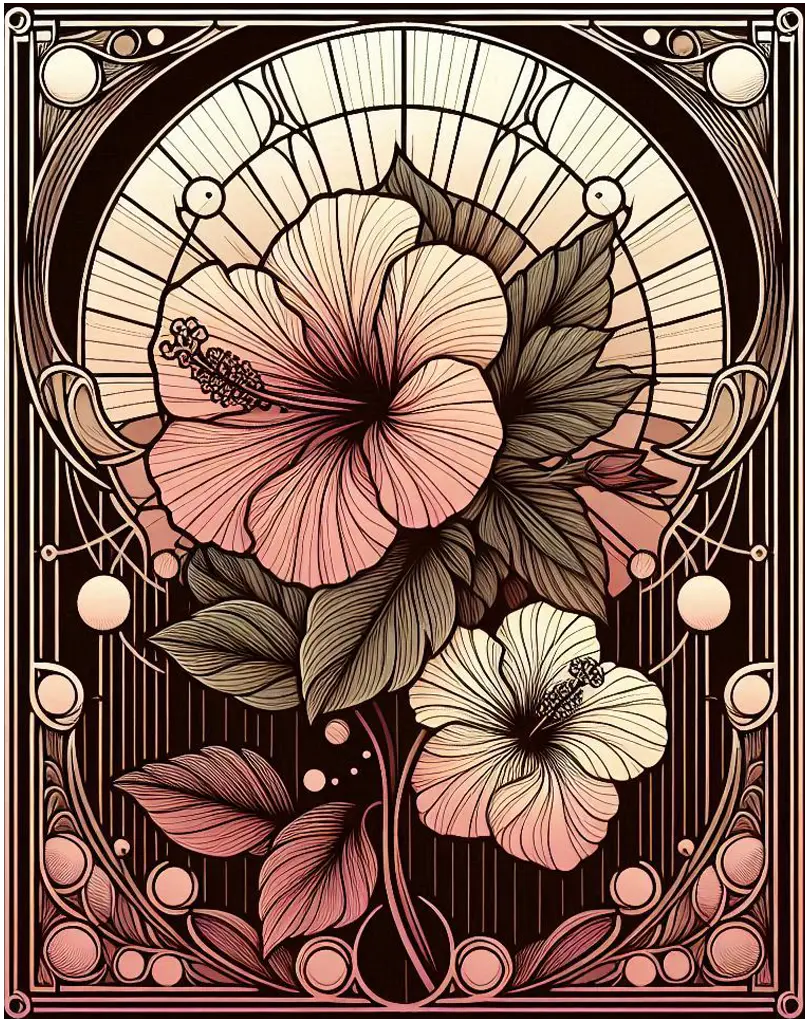
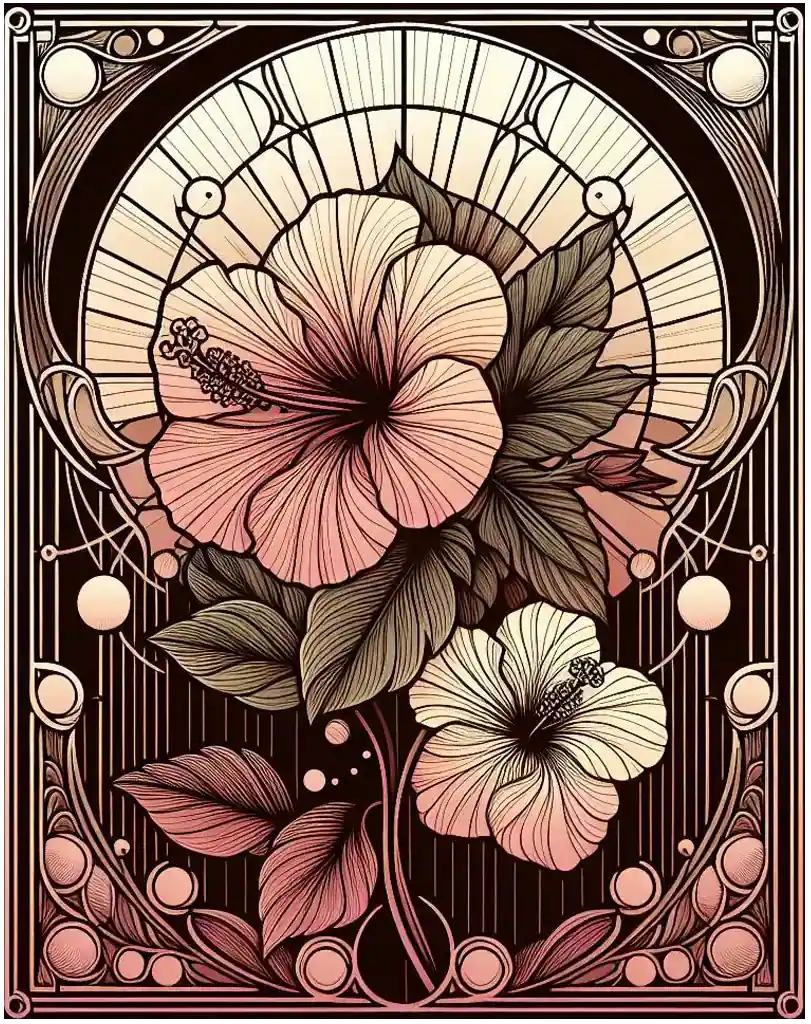
Img Optimization and image backgrounds

diff --git a/pages_HSTM/miniParallax/contact.html b/pages_HSTM/miniParallax/contact.html
@@ -7,29 +7,30 @@
     <link rel="stylesheet" href="../../css/miniParallax.css">
     <script src="../../scripts/tbd.js" defer></script>
 </head>
-<body class="contact_body dark">
-    <img src="../../assets/img/dark_0.webp" data-speedx="0.002" data-speedy="0.002"  alt="" class="parallax bg_img">
-    <img src="../../assets/img/dark_1.webp" data-speedx="0.005" data-speedy="0.005" alt="" class="parallax trees1">
+<body class="contact_body ">
+    <img src="../../assets/img/Hibiscus_7.webp" alt="" class="contactBckImg">
+    <img src="../../assets/img/Hibiscus_4.webp" alt="" class="contactBckImg2">
     <header class="app-bar">
-        <h1 class="logo dark">HSTM</h1>
-        <nav class="nav dark">
-          <ul class="navUl dark">
-            <li class="navLi dark"><a class="navA dark" href="../../index.html">Home</a></li>
-            <li class="navLiDrop dark">SERVICES
-                <ul class="services_drop dark hidden">
-                    <li class="servicesLi dark"><a class="serv_navA" href="new_client.html">New Client</a></li>
-                    <li class="servicesLi dark"><a class="serv_navA" href="ret_client.html">Returning</a></li>
+        <h1 class="logo ">HSTM</h1>
+        <nav class="nav ">
+          <ul class="navUl ">
+            <li class="navLi "><a class="navA " href="../../index.html">Home</a></li>
+            <li class="navLiDrop ">SERVICES
+                <ul class="services_drop  hidden">
+                    <li class="servicesLi "><a class="serv_navA" href="new_client.html">New Client</a></li>
+                    <li class="servicesLi "><a class="serv_navA" href="ret_client.html">Returning</a></li>
                 </ul>
             </li>
-            <li class="navLi dark"><a class="navA dark" href="FAQ.html">FAQ</a></li>
-            <li class="navLi dark"><a class="navA dark" href="about.html">About</a></li>
-            <li class="navLi dark"><a class="navA dark current_page" href="contact.html">Contact</a></li>
+            <li class="navLi "><a class="navA " href="FAQ.html">FAQ</a></li>
+            <li class="navLi "><a class="navA " href="about.html">About</a></li>
+            <li class="navLi "><a class="navA  current_page" href="contact.html">Contact</a></li>
           </ul>
         </nav>
     </header> 
     <br>
-    <main class="contact_main dark">
-        <div class="phoneContact">
+    <main class="">
+        
+        <div class="phoneContact contact_main" >
             <h1>Leave Us a Message</h1>
             <p>If you are in need of help with finding a time for your appointment, please call or text  and we wil be happy to assist you. <span style="font-weight: bolder; text-decoration: underline;">PLEASE NOTE:</span> We <span style="font-style: italic;">do not</span> have a receptionist, so if there is no answer, it means we are serving other clients.
             </p>
@@ -41,17 +42,19 @@
                 <p>The best way to book an appointment is through our booking software: </p>
                 <div class="button">
                     <a href="ret_client.html" class="buttonLink">Returning Client</a>
-                  </div>
-                  <div class="button">
+                </div>
+                <div class="button">
                     <a href="new_client.html" class="buttonLink">New Client</a>
-                  </div>
+                </div>
             </div>
         </div>    
-        <div></div>
         <br><br><hr><br><br>
-        <h1>Find Us</h1>
-        <iframe src="https://app.mapline.com/map/map_49b891b3/amJsOWxqRXZvb3M4SlBWcWZDTFlnOFVUZXdxQ1psVThFdGhSS0" style="width:100%;height:400px;" allow="geolocation *"></iframe>
-         <!--<div style="font-size: 10px;"><a href="https://mapline.com" target="_blank">Mapping by Mapline</a></div> -->
+
+        <div class="contact_main dark">
+            <h1>Find Us at  #101 4413 48 Street in Leduc</h1>
+            <iframe src="https://app.mapline.com/map/map_49b891b3/amJsOWxqRXZvb3M4SlBWcWZDTFlnOFVUZXdxQ1psVThFdGhSS0" style="width:100%;height:400px;" allow="geolocation *"></iframe>
+            <!--<div style="font-size: 10px;"><a href="https://mapline.com" target="_blank">Mapping by Mapline</a></div> -->
+        </div>
     </main>
     <footer></footer>
 </body>

diff --git a/css/miniParallax.css b/css/miniParallax.css
@@ -78,7 +78,7 @@ img {
     background: rgba(52, 54, 77, 0.4);
     border-radius: 15px;
     box-shadow: 10px 10px 20px rgba(0, 0, 0, 0.2),
-                -10px -10px 20px rgba(158, 248, 248, 0.5),
+                -10px -10px 20px rgba(255, 255, 255, 0.5),
                 inset 0 0 10px rgba(255, 255, 255, 0.2),
                 inset 0 0 10px rgba(0, 0, 0, 0.2);
     backdrop-filter: blur(10px);
@@ -91,7 +91,7 @@ img {
 
 .contact_buttons {
     display: grid;
-    grid-template-columns: 2fr 1fr 1fr;
+    grid-template-columns: 2fr 0.75fr 0.5fr;
     margin-top: 3rem;
 
 }
@@ -127,6 +127,7 @@ img {
     border: none;
     border-radius: 0;
     box-shadow: 0 0 0 rgb(25, 25, 53);
+    font-size: 1rem;
 }
 
 .buttonLink:hover {
@@ -245,7 +246,7 @@ img {
     text-transform: uppercase;
 }
 
-.retNavA {
+.retNavA, .serv_retNavA {
     
         text-decoration: none;
         color: white;
@@ -563,3 +564,23 @@ img {
                 <a href="" class="blockLink"><h3 class="block">90min</h3></a>
             </div>
         </div> */
+
+
+.contactBckImg {
+    position: fixed;
+    right: 0;
+    bottom: 0;
+    height: 100vh;
+}
+
+.contactBckImg2 {
+    position: fixed;
+    left: 0;
+    bottom: 0;
+    height: 100vh;
+}
+
+iframe {
+    border-radius: 25px;
+    margin-top: 2rem;
+}
